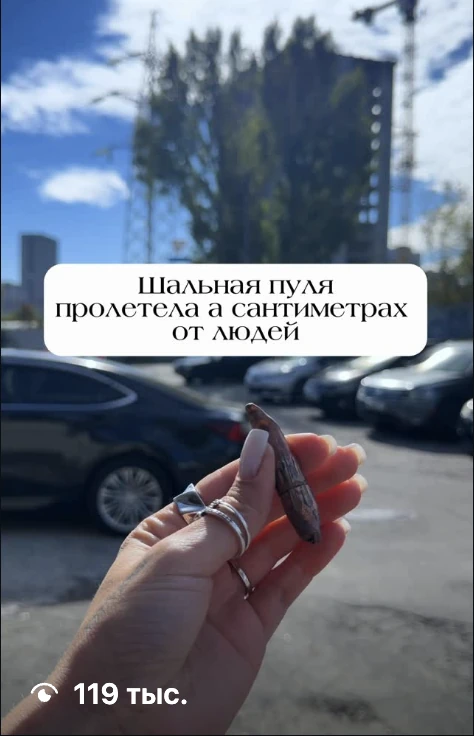
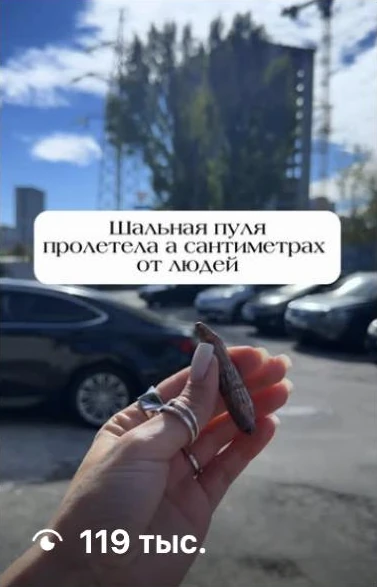
Тест дизайна: кадр на 119 тысяч с крупным счётчиком

diff --git a/bolshaya-igra-test/index.html b/bolshaya-igra-test/index.html
@@ -360,7 +360,7 @@
           </ul>
           <p class="case__sub">Её рилсы</p>
           <ul class="case__reels">
-            <li><img src="../assets/case-velunova-r1.webp" alt="Рилс Velunova, на скрине 119 тысяч просмотров" width="474" height="736" loading="lazy"></li>
+            <li><img src="../assets/case-velunova-r1.webp?v=2" alt="Рилс Velunova, на скрине 119 тысяч просмотров" width="377" height="587" loading="lazy"></li>
             <li><img src="../assets/case-velunova-r2.webp" alt="Рилс Velunova, на скрине 29,1 тысячи просмотров" width="474" height="738" loading="lazy"></li>
             <li><img src="../assets/case-velunova-r3.webp" alt="Рилс Velunova, на скрине 19,5 тысячи просмотров" width="377" height="587" loading="lazy"></li>
             <li><img src="../assets/case-velunova-r4.webp" alt="Рилс Velunova, на скрине 8 035 просмотров" width="474" height="736" loading="lazy"></li>
